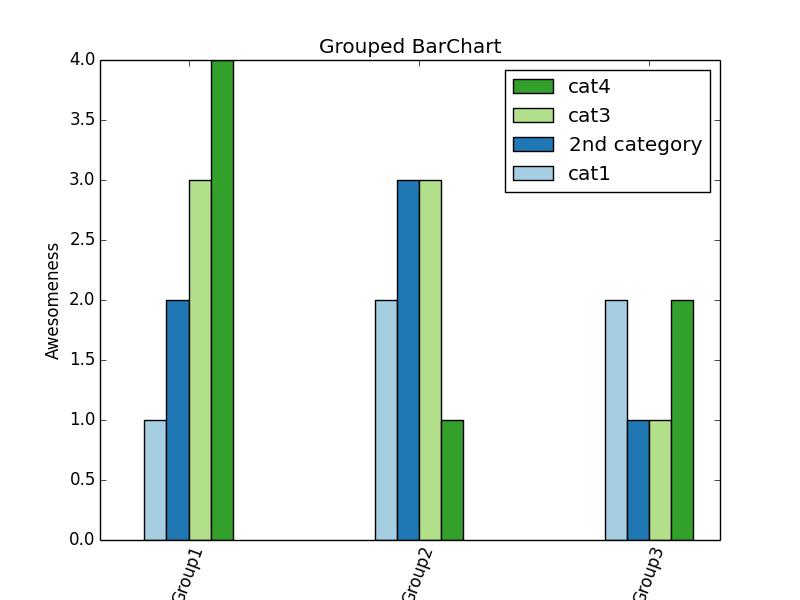
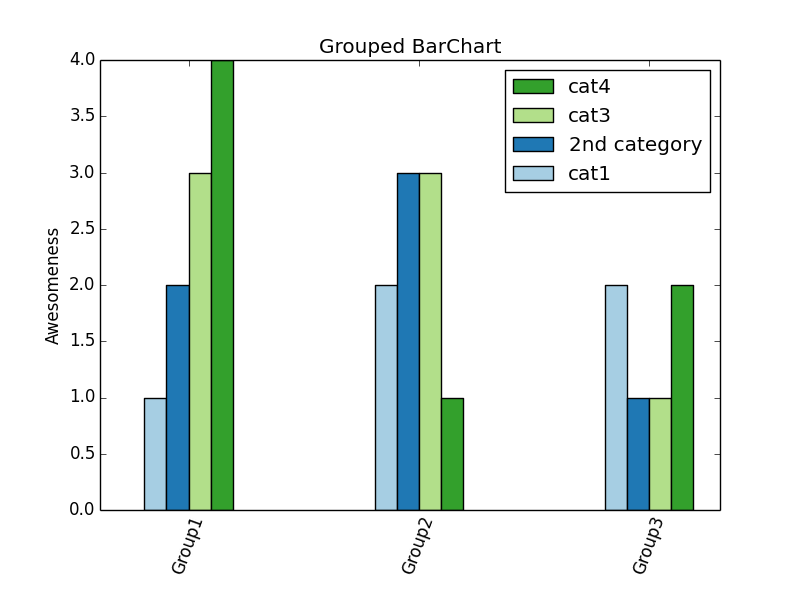
Examples: adjust bottom of figure to create more space for tick labels

diff --git a/examples/barchart-grouped.py b/examples/barchart-grouped.py
@@ -24,7 +24,7 @@ chart.auto_add_categories()
 chart.add_category("cat2", "2nd category")
 
 fig, ax = pyplot.subplots(1, 1)
-#fig.subplots_adjust(bottom=0.15)
+fig.subplots_adjust(bottom=0.15)
 chart.plot(ax, stacked=False, sort=True)
 
 # output

diff --git a/examples/barchart-stacked.py b/examples/barchart-stacked.py
@@ -24,7 +24,7 @@ chart.auto_add_categories()
 chart.add_category("cat2", "2nd category")
 
 fig, ax = pyplot.subplots(1, 1)
-#fig.subplots_adjust(bottom=0.15)
+fig.subplots_adjust(bottom=0.15)
 chart.plot(ax, stacked=True)
 
 # output
